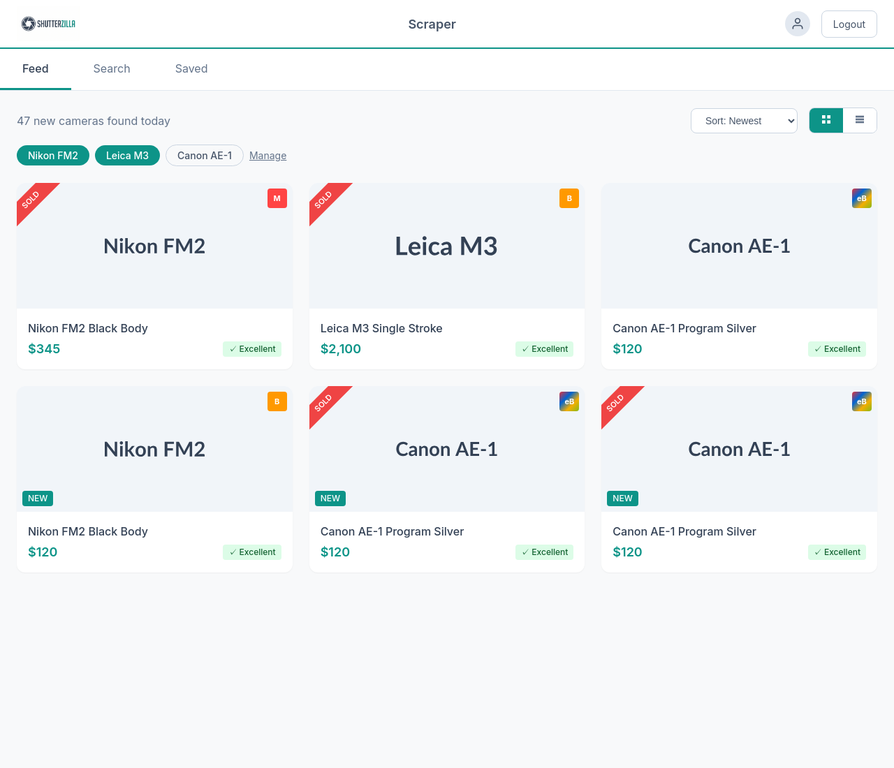
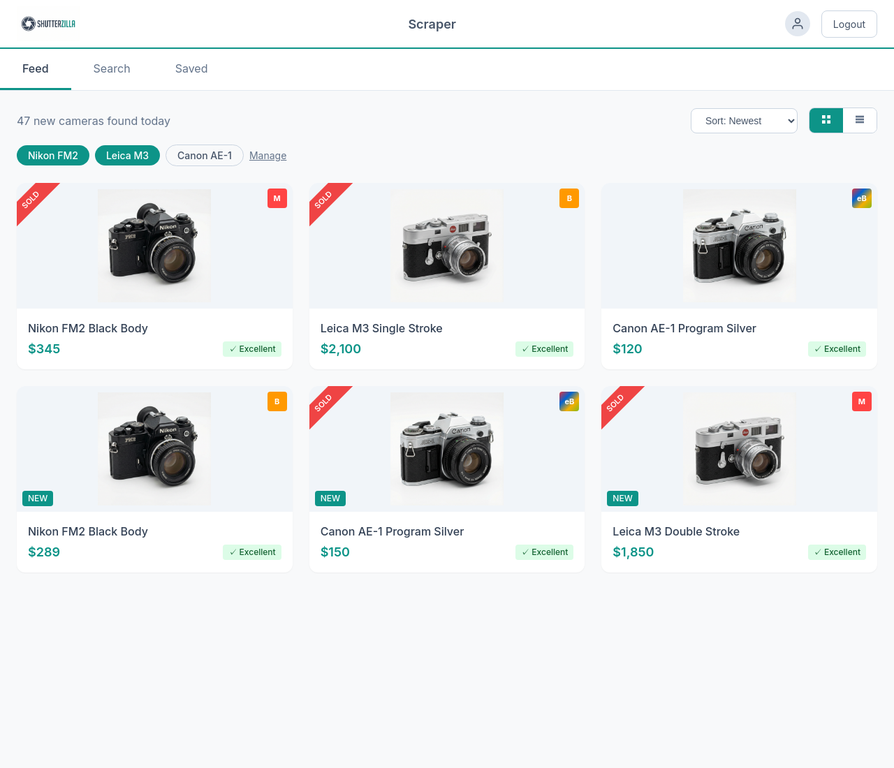
Add realistic camera images to Scraper Feed mockup

diff --git a/mockups/scraper-feed.html b/mockups/scraper-feed.html
@@ -104,12 +104,12 @@
 
     <!-- Camera Grid -->
     <div class="grid grid--3">
-      <!-- Card 1 - Sold -->
+      <!-- Card 1 - Nikon FM2 Sold -->
       <div class="card">
         <div class="card__image-container">
           <div class="ribbon">Sold</div>
           <div class="source-icon source-icon--mercari">M</div>
-          <img src="https://placehold.co/300x200/f1f5f9/334155?text=Nikon+FM2" alt="Nikon FM2">
+          <img src="assets/cameras/nikon-fm2.png" alt="Nikon FM2">
         </div>
         <div class="card__body">
           <h3 class="card__title">Nikon FM2 Black Body</h3>
@@ -120,12 +120,12 @@
         </div>
       </div>
 
-      <!-- Card 2 - Sold -->
+      <!-- Card 2 - Leica M3 Sold -->
       <div class="card">
         <div class="card__image-container">
           <div class="ribbon">Sold</div>
           <div class="source-icon source-icon--buyee">B</div>
-          <img src="https://placehold.co/300x200/f1f5f9/334155?text=Leica+M3" alt="Leica M3">
+          <img src="assets/cameras/leica-m3.png" alt="Leica M3">
         </div>
         <div class="card__body">
           <h3 class="card__title">Leica M3 Single Stroke</h3>
@@ -136,11 +136,11 @@
         </div>
       </div>
 
-      <!-- Card 3 - Available -->
+      <!-- Card 3 - Canon AE-1 Available -->
       <div class="card">
         <div class="card__image-container">
           <div class="source-icon source-icon--ebay">eB</div>
-          <img src="https://placehold.co/300x200/f1f5f9/334155?text=Canon+AE-1" alt="Canon AE-1">
+          <img src="assets/cameras/canon-ae1.png" alt="Canon AE-1">
         </div>
         <div class="card__body">
           <h3 class="card__title">Canon AE-1 Program Silver</h3>
@@ -151,51 +151,51 @@
         </div>
       </div>
 
-      <!-- Card 4 - New -->
+      <!-- Card 4 - Nikon FM2 New -->
       <div class="card">
         <div class="card__image-container">
           <span class="badge badge--new" style="position: absolute; bottom: 8px; left: 8px;">NEW</span>
           <div class="source-icon source-icon--buyee">B</div>
-          <img src="https://placehold.co/300x200/f1f5f9/334155?text=Nikon+FM2" alt="Nikon FM2">
+          <img src="assets/cameras/nikon-fm2.png" alt="Nikon FM2">
         </div>
         <div class="card__body">
           <h3 class="card__title">Nikon FM2 Black Body</h3>
           <div class="card__meta">
-            <span class="card__price">$120</span>
+            <span class="card__price">$289</span>
             <span class="badge badge--success">✓ Excellent</span>
           </div>
         </div>
       </div>
 
-      <!-- Card 5 - New + Sold -->
+      <!-- Card 5 - Canon AE-1 New + Sold -->
       <div class="card">
         <div class="card__image-container">
           <div class="ribbon">Sold</div>
           <span class="badge badge--new" style="position: absolute; bottom: 8px; left: 8px;">NEW</span>
           <div class="source-icon source-icon--ebay">eB</div>
-          <img src="https://placehold.co/300x200/f1f5f9/334155?text=Canon+AE-1" alt="Canon AE-1">
+          <img src="assets/cameras/canon-ae1.png" alt="Canon AE-1">
         </div>
         <div class="card__body">
           <h3 class="card__title">Canon AE-1 Program Silver</h3>
           <div class="card__meta">
-            <span class="card__price">$120</span>
+            <span class="card__price">$150</span>
             <span class="badge badge--success">✓ Excellent</span>
           </div>
         </div>
       </div>
 
-      <!-- Card 6 - New + Sold -->
+      <!-- Card 6 - Leica M3 New + Sold -->
       <div class="card">
         <div class="card__image-container">
           <div class="ribbon">Sold</div>
           <span class="badge badge--new" style="position: absolute; bottom: 8px; left: 8px;">NEW</span>
-          <div class="source-icon source-icon--ebay">eB</div>
-          <img src="https://placehold.co/300x200/f1f5f9/334155?text=Canon+AE-1" alt="Canon AE-1">
+          <div class="source-icon source-icon--mercari">M</div>
+          <img src="assets/cameras/leica-m3.png" alt="Leica M3">
         </div>
         <div class="card__body">
-          <h3 class="card__title">Canon AE-1 Program Silver</h3>
+          <h3 class="card__title">Leica M3 Double Stroke</h3>
           <div class="card__meta">
-            <span class="card__price">$120</span>
+            <span class="card__price">$1,850</span>
             <span class="badge badge--success">✓ Excellent</span>
           </div>
         </div>
